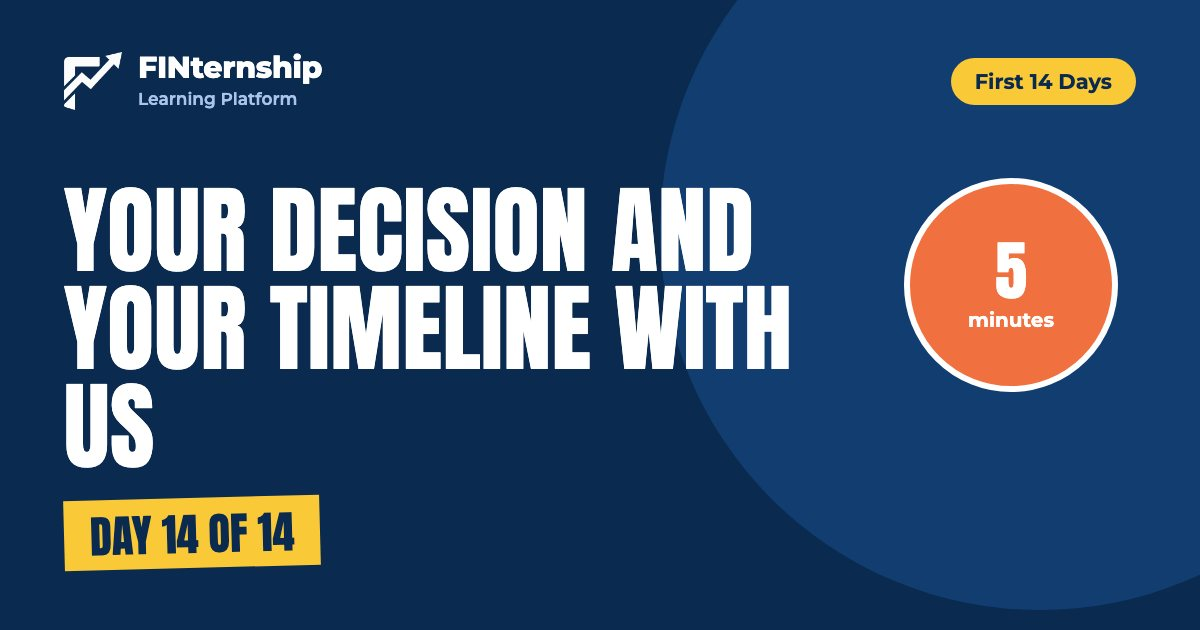
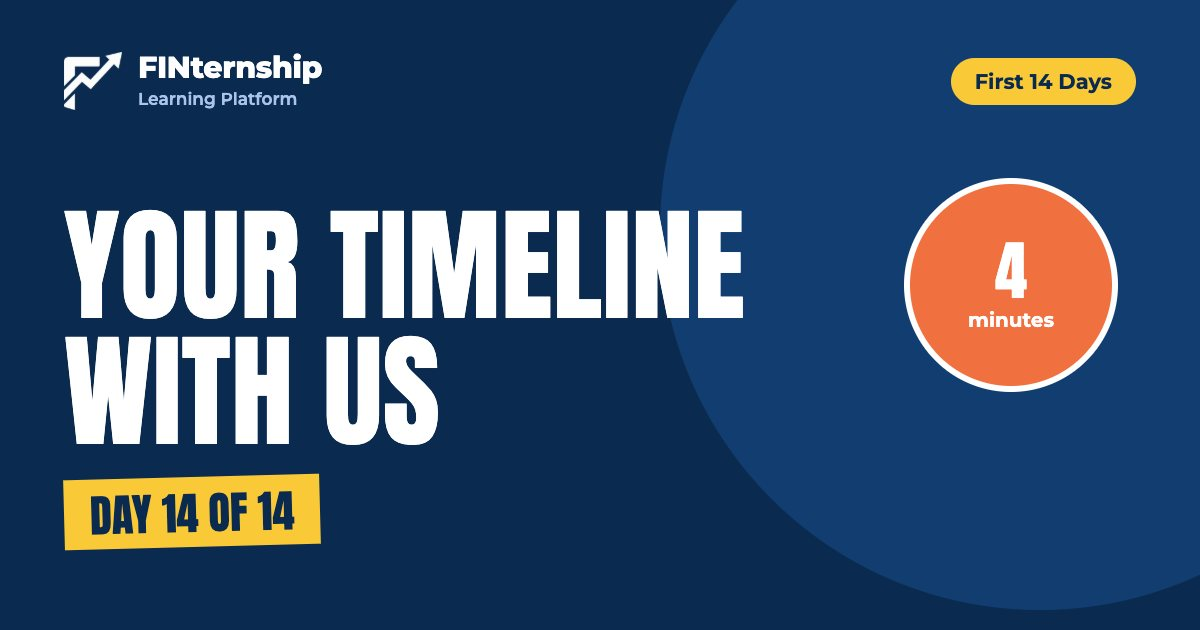
improve: First 14 Days Day 14 goes straight to the timeline, without the four-answers decision or the $10,000 month maths
Day 1, the First 14 Days page and the Week 2 overview no longer promise four
answers on Day 14; Day 14's title, preview card and search headings follow.

Changed region(s): [[0.0308, 0.2714, 0.6783, 0.9048], [0.8325, 0.3921, 0.8633, 0.4825]]

diff --git a/src/features/global-search/headingIndex.ts b/src/features/global-search/headingIndex.ts
@@ -1,6 +1,6 @@
 // AUTO-GENERATED by scripts/build-search-index.ts. Do not edit by hand.
 // Regenerate after changing day markdown files: bun scripts/build-search-index.ts
-// Rows: 3362 (f60: 1330, pm: 991, n60: 938, f14: 103)
+// Rows: 3357 (f60: 1330, pm: 991, n60: 938, f14: 98)
 
 export type HeadingTrack = "f60" | "pm" | "n60" | "f14";
 
@@ -99,11 +99,6 @@ export const HEADING_INDEX: HeadingRow[] = [["f14",1,2,"How these 14 days work",
 ["f14",13,3,"16. What is the minimum quota when I contract as an agent or student advisor?","16-what-is-the-minimum-quota-when-i-contract-as-an-agent-or-student-advisor"],
 ["f14",13,3,"17. What happens if I can't hit my quotas?","17-what-happens-if-i-cant-hit-my-quotas"],
 ["f14",13,3,"18. What happens if I leave halfway? Do I have to repay the CMFAS exam costs?","18-what-happens-if-i-leave-halfway-do-i-have-to-repay-the-cmfas-exam-costs"],
-["f14",14,2,"Four answers","four-answers"],
-["f14",14,3,"Commit","commit"],
-["f14",14,3,"Delay","delay"],
-["f14",14,3,"Keep exploring","keep-exploring"],
-["f14",14,3,"No","no"],
 ["f14",14,2,"Your timeline with us","your-timeline-with-us"],
 ["f14",14,3,"Introduction: what you do today","introduction-what-you-do-today"],
 ["f14",14,3,"Incubation: the next few months","incubation-the-next-few-months"],

diff --git a/src/pages/learning-track/First14Days.tsx b/src/pages/learning-track/First14Days.tsx
@@ -65,8 +65,7 @@ export default function First14Days() {
               Decide if this career (and this team) is right for you.
             </h1>
             <p className="mt-2 text-sm text-muted-foreground leading-relaxed">
-              14 short reads, one a day. On Day 14 you pick one of four answers: commit, delay, keep
-              exploring, or no.
+              14 short reads, one a day.
             </p>
           </div>
           <div className="flex flex-wrap items-center gap-3 pt-2">

diff --git a/src/features/first-14-days/summaries.ts b/src/features/first-14-days/summaries.ts
@@ -131,8 +131,8 @@ export const DAY_SUMMARIES: DaySummary[] = [
     dayNumber: 14,
     week: 2,
     dayInWeek: 7,
-    title: "Your decision and your timeline with us",
-    duration: 5,
+    title: "Your timeline with us",
+    duration: 4,
     bigIdea:
       "I didn't have a crystal ball. I joined with the mindset that I had everything to gain and nothing to lose.",
   },

diff --git a/docs/first-14-days/week-2/day-14.md b/docs/first-14-days/week-2/day-14.md
@@ -1,64 +1,16 @@
 ---
 week: 2
 day: 14
-title: "Your decision and your timeline with us"
+title: "Your timeline with us"
 big_idea: "I didn't have a crystal ball. I joined with the mindset that I had everything to gain and nothing to lose."
 author: "Leo Tan"
 primary_sources:
   - "[[../../explorer/_source-articles/financial-iq-masterclass-slides]]"
   - "[[../../finternship-orientation/04-module-4---your-unfair-advantage/09-8-your-timeline-with-us]]"
   - "[[../../finternship-orientation/04-module-4---your-unfair-advantage/05-lesson-4-your-first-90-days]]"
-duration_minutes: 5
-tags: [first-14-days, week-2, prospect, decision, graduation, timeline, leo-voice]
+duration_minutes: 4
+tags: [first-14-days, week-2, prospect, graduation, timeline, leo-voice]
 ---
-
-You've seen the business model, the math, the agency question, the 6 C's, the common worries and my answers to your questions, so today you decide.
-
-## Four answers
-
-By the end of today, pick one.
-
-```layers
-title: Four | answers
-art: /first-14-days/diagrams/signpost.webp
-Commit | the career fits and our team fits || Delay | the career fits, the timing doesn't
-Keep exploring | the career fits, our team is the question || No | this career isn't for you, and that's fine
-```
-
-
-### Commit
-
-The career fits and our team fits. The next step is an [onboarding call with me](https://www.pick-a-time.app/book/withleo). From there the process has five stages, and it usually takes 2 to 4 weeks:
-
-```steps
-title: Five stages | 2 to 4 weeks
-art: /first-14-days/diagrams/steps.webp
-Initial briefing | 30 min, two-way overview
-Character test | 6 C's alignment
-1-1 round | 4Rs framework
-HR round | Flexi tier + CMFAS plan
-Final interview | sign offer, commit both sides
-```
-
-1. Initial briefing: 30 minutes where I walk you through the program and answer your questions.
-2. Character test: a short conversation and a self-check against the 6 C's from Day 9.
-3. 1-1 round: your strengths, your situation and what you want from the next 12 months. We agree on your role title, responsibilities, mission and results.
-4. HR round: your working hours, your Flexi scheme and your CMFAS exam plan.
-5. Final interview: you sign the Flexi offer, and I sign my side of the income guarantee.
-
-Along the way you'll meet 2 or 3 current FINterns, so you can ask them what the work is really like.
-
-### Delay
-
-The career fits, but the timing doesn't. Maybe your job is too demanding right now, or you need to work on one of the 6 C's first. Pick a date 3, 6 or 12 months from now, write down what needs to be true by then, and put it in your calendar.
-
-### Keep exploring
-
-The career fits, but you're not sure about our team. Take the questions from Day 8 to 2 or 3 other agencies, and speak to the advisors who work there as well as the recruiters.
-
-### No
-
-This career isn't for you, and that's a fine answer. You've saved yourself a year of finding out the hard way. If things change, come back in 6 months.
 
 ## Your timeline with us
 
@@ -110,15 +62,6 @@ In months 1 and 2, we sponsor your CMFAS exams, which normally cost you $500+ (y
 In month 3, you're added to our CRM and get your own dashboard. Our appointment team books 2 to 3 appointments a week into your calendar, and you run your first client meetings with coaching and a debrief after each one, while our VAs handle the paperwork. As your confidence grows, it goes up to 3 to 4 appointments a week, and you close your first cases.
 
 From month 4, you handle 4 to 5 appointments a week, your closing rate improves, and referrals start coming from happy clients.
-
-The math for a $10,000 month:
-
-- Average commission per case: $2,000 (a conservative estimate)
-- Cases needed a month: 5
-- Appointments needed a month: 25, at a 20% closing rate
-- Appointments a week: about 6
-
-Our system books the appointments, gives you scripts that make a 20%+ closing rate achievable, and handles the backend. Your job is to show up to the appointments, follow the presentation framework and close.
 
 ## How much do you need to commit?
 

diff --git a/docs/first-14-days/week-2/README.md b/docs/first-14-days/week-2/README.md
@@ -2,7 +2,7 @@
 week: 2
 title: "Week 2: The fit test"
 author: "Leo Tan"
-kpi: "By the end of Day 14, you have picked one answer: commit, delay, keep exploring or no."
+kpi: "By the end of Day 14, you know if this career and our team fit you."
 unlocks: null
 tags: [first-14-days, week-2, week-overview, fit, agency-choice, decision, leo-voice]
 ---
@@ -19,8 +19,4 @@ Week 1 looked at the business model. Week 2 looks at the agency, and at you.
 - [Day 11: No experience, and not an extrovert](/learning-track/first-14-days/day/11). I started from zero, with a stammer.
 - [Day 12: Limited time, office size and product range](/learning-track/first-14-days/day/12). How I built the business on 2 hours a day during GEP.
 - [Day 13: Your questions answered](/learning-track/first-14-days/day/13). My answers to the questions candidates ask most.
-- [Day 14: Your decision and your timeline with us](/learning-track/first-14-days/day/14). Pick your answer, and see what happens next.
-
-## Four answers
-
-On Day 14 you pick one: commit, delay, keep exploring, or no. All four are fine answers.
+- [Day 14: Your timeline with us](/learning-track/first-14-days/day/14). What happens next, and how much you need to commit.

diff --git a/docs/first-14-days/week-1/day-01.md b/docs/first-14-days/week-1/day-01.md
@@ -108,8 +108,6 @@ There are only a few things I ask of you: be as proactive as you can, attend our
 
 Each day is one short read. Week 1 looks at the business model itself. Week 2 looks at whether this career, and our team, fit you.
 
-On Day 14 you pick one of four answers: commit, delay, keep exploring, or no. A no is a fine answer too. It saves you a year of finding out the hard way.
-
 ---
 
 ## Before Day 2
